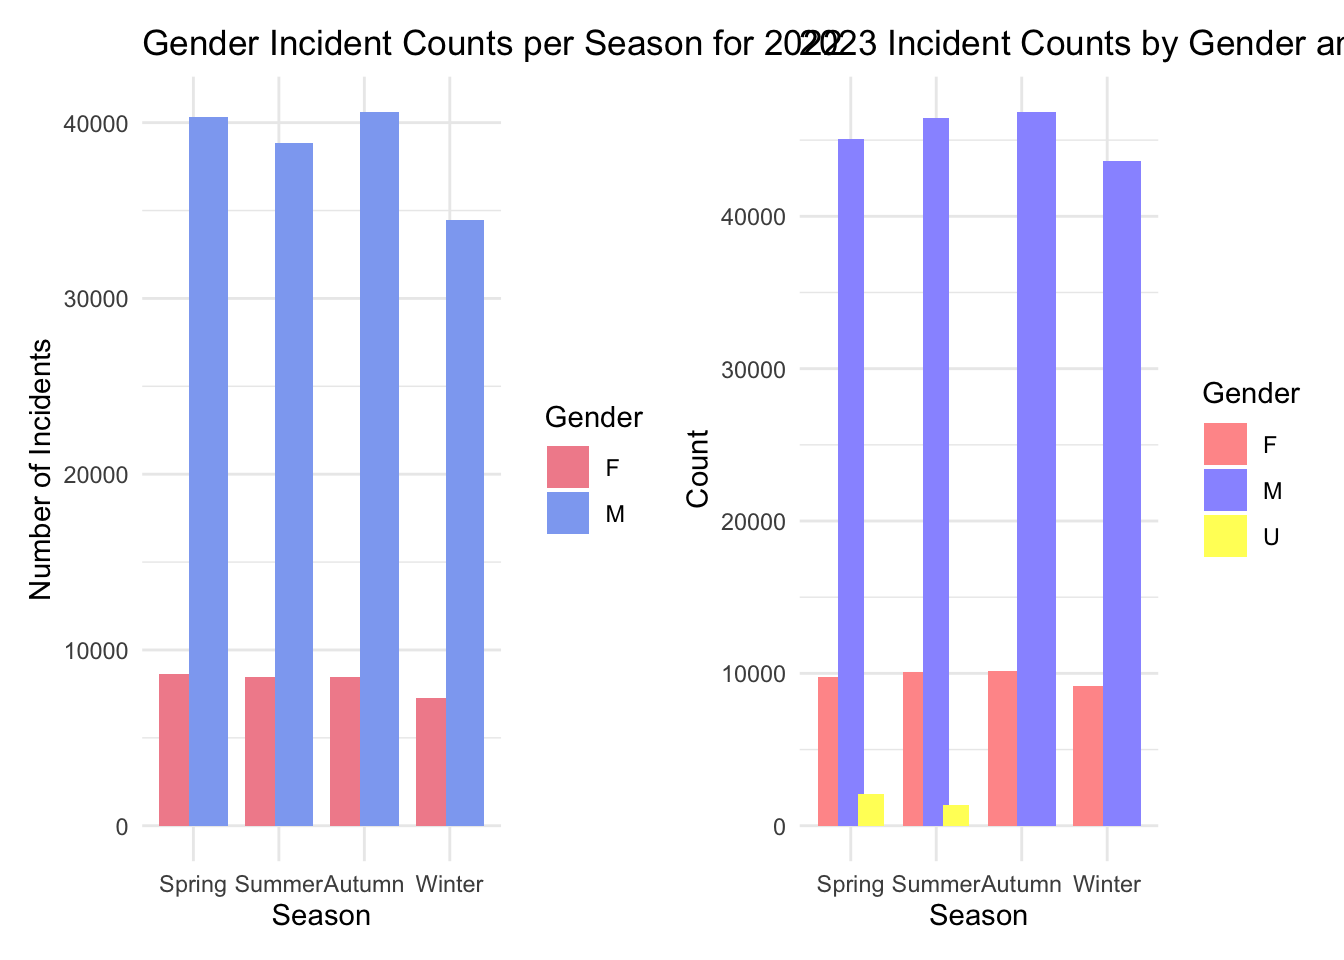
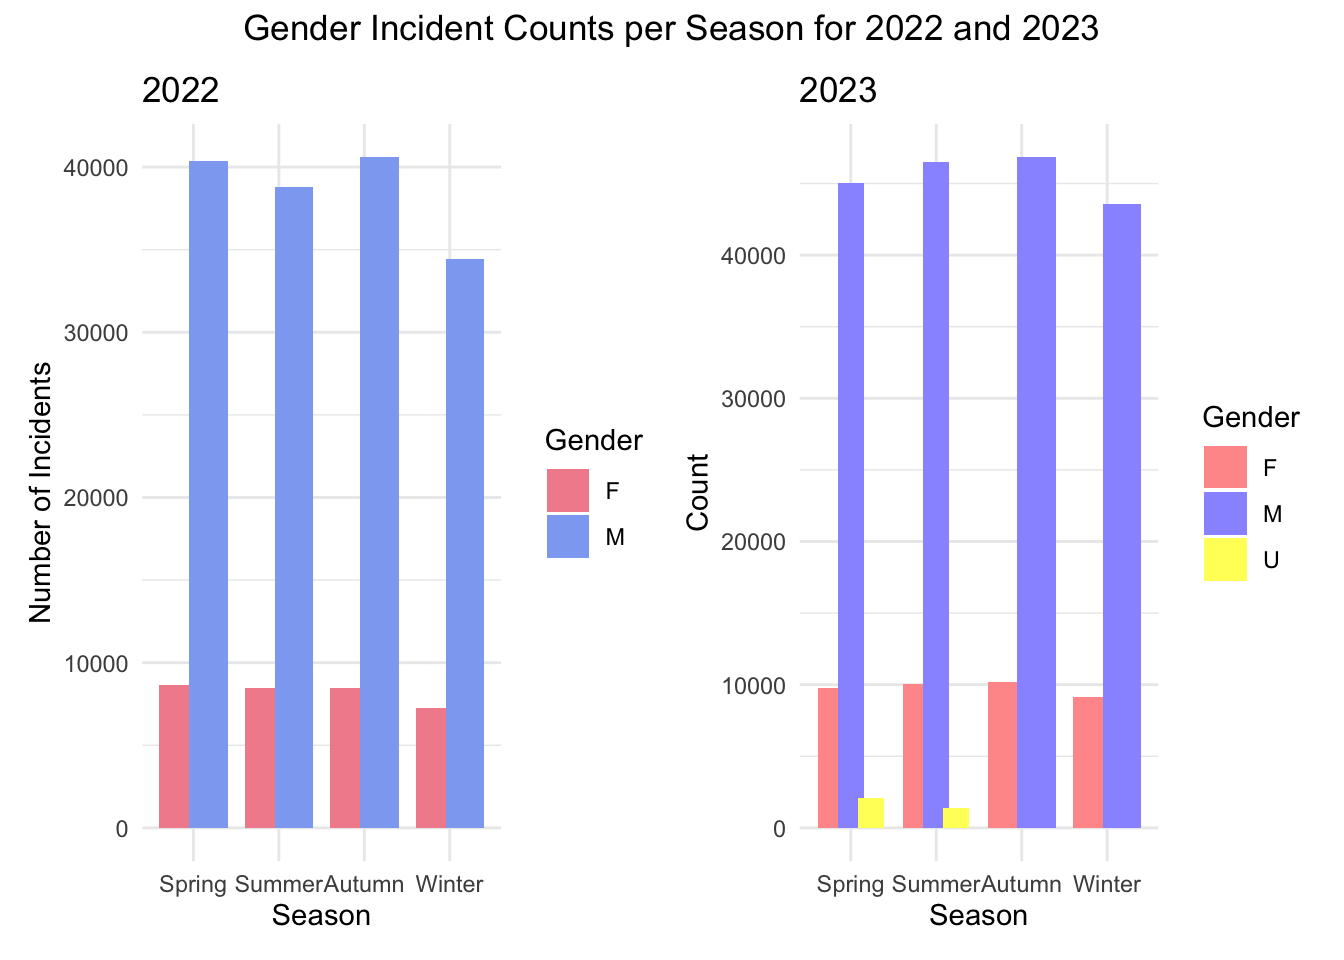
Built site for gh-pages

diff --git a/posts/2024-4-29/2024_04_29_blog_7.html b/posts/2024-4-29/2024_04_29_blog_7.html
@@ -9,7 +9,7 @@
 <meta name="author" content="TEAM 14">
 <meta name="dcterms.date" content="2024-04-29">
 
-<title>MA [46]15 Final Project — TEAM 14 - 7th Blog Post</title>
+<title>MA [46]15 Final Project — TEAM 14 - Seventh Blog Post</title>
 <style>
 code{white-space: pre-wrap;}
 span.smallcaps{font-variant: small-caps;}
@@ -21,40 +21,6 @@ ul.task-list li input[type="checkbox"] {
   width: 0.8em;
   margin: 0 0.8em 0.2em -1em; /* quarto-specific, see https://github.com/quarto-dev/quarto-cli/issues/4556 */ 
   vertical-align: middle;
-}
-/* CSS for syntax highlighting */
-pre > code.sourceCode { white-space: pre; position: relative; }
-pre > code.sourceCode > span { display: inline-block; line-height: 1.25; }
-pre > code.sourceCode > span:empty { height: 1.2em; }
-.sourceCode { overflow: visible; }
-code.sourceCode > span { color: inherit; text-decoration: inherit; }
-div.sourceCode { margin: 1em 0; }
-pre.sourceCode { margin: 0; }
-@media screen {
-div.sourceCode { overflow: auto; }
-}
-@media print {
-pre > code.sourceCode { white-space: pre-wrap; }
-pre > code.sourceCode > span { text-indent: -5em; padding-left: 5em; }
-}
-pre.numberSource code
-  { counter-reset: source-line 0; }
-pre.numberSource code > span
-  { position: relative; left: -4em; counter-increment: source-line; }
-pre.numberSource code > span > a:first-child::before
-  { content: counter(source-line);
-    position: relative; left: -1em; text-align: right; vertical-align: baseline;
-    border: none; display: inline-block;
-    -webkit-touch-callout: none; -webkit-user-select: none;
-    -khtml-user-select: none; -moz-user-select: none;
-    -ms-user-select: none; user-select: none;
-    padding: 0 4px; width: 4em;
-  }
-pre.numberSource { margin-left: 3em;  padding-left: 4px; }
-div.sourceCode
-  {   }
-@media screen {
-pre > code.sourceCode > span > a:first-child::before { text-decoration: underline; }
 }
 </style>
 
@@ -144,7 +110,7 @@ pre > code.sourceCode > span > a:first-child::before { text-decoration: underlin
 <header id="title-block-header" class="quarto-title-block default page-columns page-full">
   <div class="quarto-title-banner page-columns page-full">
     <div class="quarto-title column-body">
-      <h1 class="title">7th Blog Post</h1>
+      <h1 class="title">Seventh Blog Post</h1>
                       </div>
   </div>
     
@@ -194,50 +160,11 @@ pre > code.sourceCode > span > a:first-child::before { text-decoration: underlin
 </div>
 </div>
 <div class="cell">
-<div class="sourceCode cell-code" id="cb2"><pre class="sourceCode r code-with-copy"><code class="sourceCode r"><span id="cb2-1"><a href="#cb2-1" aria-hidden="true" tabindex="-1"></a>combine_plot_crime<span class="ot">&lt;-</span>plot_count<span class="sc">+</span>plota3<span class="sc">+</span>plotfa<span class="sc">+</span>plotpl<span class="sc">+</span></span>
-<span id="cb2-2"><a href="#cb2-2" aria-hidden="true" tabindex="-1"></a>   <span class="fu">plot_layout</span>(<span class="at">nrow =</span> <span class="dv">2</span>, <span class="at">ncol =</span> <span class="dv">2</span>)</span>
-<span id="cb2-3"><a href="#cb2-3" aria-hidden="true" tabindex="-1"></a>combine_plot_crime</span></code><button title="Copy to Clipboard" class="code-copy-button"><i class="bi"></i></button></pre></div>
 <div class="cell-output-display">
 <p><img src="2024_04_29_blog_7_files/figure-html/unnamed-chunk-7-1.png" class="img-fluid" width="672"></p>
 </div>
 </div>
 <div class="cell">
-<div class="sourceCode cell-code" id="cb3"><pre class="sourceCode r code-with-copy"><code class="sourceCode r"><span id="cb3-1"><a href="#cb3-1" aria-hidden="true" tabindex="-1"></a><span class="co">#2022 female vs male </span></span>
-<span id="cb3-2"><a href="#cb3-2" aria-hidden="true" tabindex="-1"></a>get_season <span class="ot">&lt;-</span> <span class="cf">function</span>(date) {</span>
-<span id="cb3-3"><a href="#cb3-3" aria-hidden="true" tabindex="-1"></a>  month <span class="ot">&lt;-</span> <span class="fu">month</span>(date)</span>
-<span id="cb3-4"><a href="#cb3-4" aria-hidden="true" tabindex="-1"></a>  <span class="cf">if</span> (month <span class="sc">%in%</span> <span class="fu">c</span>(<span class="dv">12</span>, <span class="dv">1</span>, <span class="dv">2</span>)) {</span>
-<span id="cb3-5"><a href="#cb3-5" aria-hidden="true" tabindex="-1"></a>    season <span class="ot">&lt;-</span> <span class="st">"Winter"</span></span>
-<span id="cb3-6"><a href="#cb3-6" aria-hidden="true" tabindex="-1"></a>  } <span class="cf">else</span> <span class="cf">if</span> (month <span class="sc">%in%</span> <span class="fu">c</span>(<span class="dv">3</span>, <span class="dv">4</span>, <span class="dv">5</span>)) {</span>
-<span id="cb3-7"><a href="#cb3-7" aria-hidden="true" tabindex="-1"></a>    season <span class="ot">&lt;-</span> <span class="st">"Spring"</span></span>
-<span id="cb3-8"><a href="#cb3-8" aria-hidden="true" tabindex="-1"></a>  } <span class="cf">else</span> <span class="cf">if</span> (month <span class="sc">%in%</span> <span class="fu">c</span>(<span class="dv">6</span>, <span class="dv">7</span>, <span class="dv">8</span>)) {</span>
-<span id="cb3-9"><a href="#cb3-9" aria-hidden="true" tabindex="-1"></a>    season <span class="ot">&lt;-</span> <span class="st">"Summer"</span></span>
-<span id="cb3-10"><a href="#cb3-10" aria-hidden="true" tabindex="-1"></a>  } <span class="cf">else</span> {</span>
-<span id="cb3-11"><a href="#cb3-11" aria-hidden="true" tabindex="-1"></a>    season <span class="ot">&lt;-</span> <span class="st">"Autumn"</span></span>
-<span id="cb3-12"><a href="#cb3-12" aria-hidden="true" tabindex="-1"></a>  }</span>
-<span id="cb3-13"><a href="#cb3-13" aria-hidden="true" tabindex="-1"></a>  <span class="fu">return</span>(season)</span>
-<span id="cb3-14"><a href="#cb3-14" aria-hidden="true" tabindex="-1"></a>}</span>
-<span id="cb3-15"><a href="#cb3-15" aria-hidden="true" tabindex="-1"></a></span>
-<span id="cb3-16"><a href="#cb3-16" aria-hidden="true" tabindex="-1"></a></span>
-<span id="cb3-17"><a href="#cb3-17" aria-hidden="true" tabindex="-1"></a>data<span class="sc">$</span>Season <span class="ot">&lt;-</span> <span class="fu">sapply</span>(data<span class="sc">$</span>ARREST_DATE, get_season)</span>
-<span id="cb3-18"><a href="#cb3-18" aria-hidden="true" tabindex="-1"></a>data_2022 <span class="ot">&lt;-</span> <span class="fu">filter</span>(data, <span class="fu">year</span>(ARREST_DATE) <span class="sc">==</span> <span class="dv">2022</span>)</span>
-<span id="cb3-19"><a href="#cb3-19" aria-hidden="true" tabindex="-1"></a></span>
-<span id="cb3-20"><a href="#cb3-20" aria-hidden="true" tabindex="-1"></a>season_gender_counts22 <span class="ot">&lt;-</span> data_2022 <span class="sc">%&gt;%</span></span>
-<span id="cb3-21"><a href="#cb3-21" aria-hidden="true" tabindex="-1"></a>  <span class="fu">group_by</span>(Season, PERP_SEX) <span class="sc">%&gt;%</span></span>
-<span id="cb3-22"><a href="#cb3-22" aria-hidden="true" tabindex="-1"></a>  <span class="fu">summarise</span>(<span class="at">Count =</span> <span class="fu">n</span>(), <span class="at">.groups =</span> <span class="st">'drop'</span>) <span class="sc">%&gt;%</span></span>
-<span id="cb3-23"><a href="#cb3-23" aria-hidden="true" tabindex="-1"></a>  <span class="fu">mutate</span>(<span class="at">Season =</span> <span class="fu">factor</span>(Season, <span class="at">levels =</span> <span class="fu">c</span>(<span class="st">"Spring"</span>, <span class="st">"Summer"</span>, <span class="st">"Autumn"</span>, <span class="st">"Winter"</span>)))</span>
-<span id="cb3-24"><a href="#cb3-24" aria-hidden="true" tabindex="-1"></a></span>
-<span id="cb3-25"><a href="#cb3-25" aria-hidden="true" tabindex="-1"></a>plotgender_22<span class="ot">&lt;-</span> <span class="fu">ggplot</span>(season_gender_counts22, <span class="fu">aes</span>(<span class="at">x =</span> Season, <span class="at">y =</span> Count, <span class="at">fill =</span> PERP_SEX)) <span class="sc">+</span></span>
-<span id="cb3-26"><a href="#cb3-26" aria-hidden="true" tabindex="-1"></a>  <span class="fu">geom_bar</span>(<span class="at">stat =</span> <span class="st">"identity"</span>, <span class="at">position =</span> <span class="fu">position_dodge</span>(<span class="at">width =</span> <span class="fl">0.7</span>)) <span class="sc">+</span></span>
-<span id="cb3-27"><a href="#cb3-27" aria-hidden="true" tabindex="-1"></a>  <span class="fu">scale_fill_manual</span>(<span class="at">values =</span> <span class="fu">c</span>(<span class="st">"F"</span> <span class="ot">=</span> <span class="st">"#f28e9b"</span>, <span class="st">"M"</span> <span class="ot">=</span> <span class="st">"#8eaaf2"</span>)) <span class="sc">+</span></span>
-<span id="cb3-28"><a href="#cb3-28" aria-hidden="true" tabindex="-1"></a>  <span class="fu">theme_minimal</span>() <span class="sc">+</span></span>
-<span id="cb3-29"><a href="#cb3-29" aria-hidden="true" tabindex="-1"></a>  <span class="fu">labs</span>(<span class="at">title =</span> <span class="st">"Gender Incident Counts per Season for 2022"</span>, </span>
-<span id="cb3-30"><a href="#cb3-30" aria-hidden="true" tabindex="-1"></a>       <span class="at">x =</span> <span class="st">"Season"</span>, </span>
-<span id="cb3-31"><a href="#cb3-31" aria-hidden="true" tabindex="-1"></a>       <span class="at">y =</span> <span class="st">"Number of Incidents"</span>,</span>
-<span id="cb3-32"><a href="#cb3-32" aria-hidden="true" tabindex="-1"></a>       <span class="at">fill =</span> <span class="st">"Gender"</span>)</span></code><button title="Copy to Clipboard" class="code-copy-button"><i class="bi"></i></button></pre></div>
-</div>
-<div class="cell">
-<div class="sourceCode cell-code" id="cb4"><pre class="sourceCode r code-with-copy"><code class="sourceCode r"><span id="cb4-1"><a href="#cb4-1" aria-hidden="true" tabindex="-1"></a>combined_plot_gender <span class="ot">&lt;-</span>plotgender_22<span class="sc">+</span>plotgender_23</span>
-<span id="cb4-2"><a href="#cb4-2" aria-hidden="true" tabindex="-1"></a>combined_plot_gender<span class="sc">&amp;</span> <span class="fu">theme_minimal</span>() <span class="sc">&amp;</span> <span class="fu">scale_color_brewer</span>(<span class="at">palette =</span> <span class="st">"Set1"</span>)</span></code><button title="Copy to Clipboard" class="code-copy-button"><i class="bi"></i></button></pre></div>
 <div class="cell-output-display">
 <p><img src="2024_04_29_blog_7_files/figure-html/unnamed-chunk-10-1.png" class="img-fluid" width="672"></p>
 </div>

diff --git a/index.html b/index.html
@@ -176,14 +176,14 @@ ul.task-list li input[type="checkbox"] {
 
 <div class="quarto-listing quarto-listing-container-default" id="listing-listing">
 <div class="list quarto-listing-default">
-<div class="quarto-post image-right" data-index="0" data-listing-date-sort="1714363200000" data-listing-file-modified-sort="1713754459435" data-listing-date-modified-sort="NaN" data-listing-reading-time-sort="5">
+<div class="quarto-post image-right" data-index="0" data-listing-date-sort="1714363200000" data-listing-file-modified-sort="1713755419455" data-listing-date-modified-sort="NaN" data-listing-reading-time-sort="5">
 <div class="thumbnail">
 <p><a href="./posts/2024-4-29/2024_04_29_blog_7.html"> <p class="card-img-top"><img src="posts/2024-4-29/2024_04_29_blog_7_files/figure-html/unnamed-chunk-7-1.png"  class="thumbnail-image card-img"/></p> </a></p>
 </div>
 <div class="body">
 <a href="./posts/2024-4-29/2024_04_29_blog_7.html">
 <h3 class="no-anchor listing-title">
-7th Blog Post
+Seventh Blog Post
 </h3>
 <div class="listing-subtitle">
 
@@ -204,14 +204,14 @@ TEAM 14
 </a>
 </div>
 </div>
-<div class="quarto-post image-right" data-index="1" data-listing-date-sort="1713758400000" data-listing-file-modified-sort="1713741307713" data-listing-date-modified-sort="NaN" data-listing-reading-time-sort="8">
+<div class="quarto-post image-right" data-index="1" data-listing-date-sort="1713758400000" data-listing-file-modified-sort="1713755491582" data-listing-date-modified-sort="NaN" data-listing-reading-time-sort="8">
 <div class="thumbnail">
 <p><a href="./posts/2024-4-22-sixth blog post/04_22_blog_6.html"> <p class="card-img-top"><img src="posts/2024-4-22-sixth blog post/04_22_blog_6_files/figure-html/unnamed-chunk-5-1.png"  class="thumbnail-image card-img"/></p> </a></p>
 </div>
 <div class="body">
 <a href="./posts/2024-4-22-sixth blog post/04_22_blog_6.html">
 <h3 class="no-anchor listing-title">
-6th Blog Post
+Sixth Blog Post
 </h3>
 <div class="listing-subtitle">
 

diff --git a/posts/2024-4-22-sixth blog post/04_22_blog_6.html b/posts/2024-4-22-sixth blog post/04_22_blog_6.html
@@ -9,7 +9,7 @@
 <meta name="author" content="TEAM 14">
 <meta name="dcterms.date" content="2024-04-22">
 
-<title>MA [46]15 Final Project — TEAM 14 - 6th Blog Post</title>
+<title>MA [46]15 Final Project — TEAM 14 - Sixth Blog Post</title>
 <style>
 code{white-space: pre-wrap;}
 span.smallcaps{font-variant: small-caps;}
@@ -144,7 +144,7 @@ pre > code.sourceCode > span > a:first-child::before { text-decoration: underlin
 <header id="title-block-header" class="quarto-title-block default page-columns page-full">
   <div class="quarto-title-banner page-columns page-full">
     <div class="quarto-title column-body">
-      <h1 class="title">6th Blog Post</h1>
+      <h1 class="title">Sixth Blog Post</h1>
                       </div>
   </div>
     
